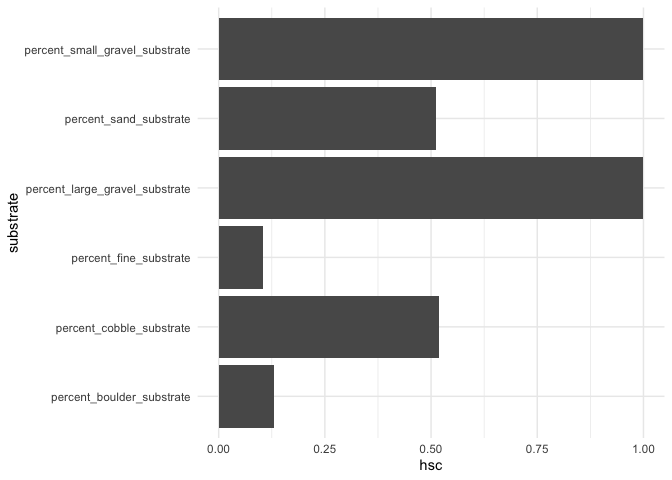
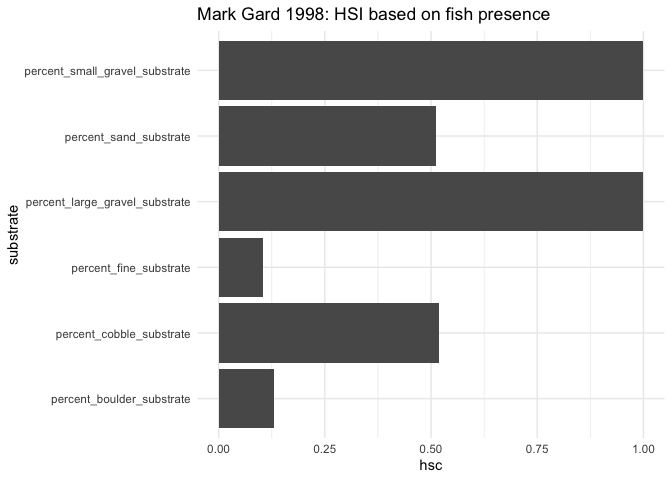
functionalizing the comparison of Mark Gard 1998 HSC

diff --git a/data-raw/feather_river_mini_snorkel_hsi_workflow.md b/data-raw/feather_river_mini_snorkel_hsi_workflow.md
@@ -1,7 +1,7 @@
 Mini Snorkel Feather HSI Workflow
 ================
 Maddee Rubenson
-2024-04-02
+2024-04-03
 
 ``` r
 # read in mini snorkel data
@@ -180,15 +180,15 @@ tidy(wf_fit) # why is boulder NA? small gravel only significant predictor
 ```
 
     ## # A tibble: 7 × 5
-    ##   term                            estimate std.error statistic   p.value
-    ##   <chr>                              <dbl>     <dbl>     <dbl>     <dbl>
-    ## 1 (Intercept)                    -2.18       0.660     -3.30    0.000966
-    ## 2 percent_fine_substrate         -0.000375   0.00759   -0.0494  0.961   
-    ## 3 percent_sand_substrate          0.00222    0.00682    0.326   0.745   
-    ## 4 percent_small_gravel_substrate -0.0158     0.00699   -2.26    0.0236  
-    ## 5 percent_large_gravel_substrate -0.0130     0.00713   -1.82    0.0690  
-    ## 6 percent_cobble_substrate       -0.0176     0.00900   -1.95    0.0511  
-    ## 7 percent_boulder_substrate      NA         NA         NA      NA
+    ##   term                           estimate std.error statistic   p.value
+    ##   <chr>                             <dbl>     <dbl>     <dbl>     <dbl>
+    ## 1 (Intercept)                    -2.19      0.626      -3.49   0.000476
+    ## 2 percent_fine_substrate         -0.00359   0.00747    -0.481  0.631   
+    ## 3 percent_sand_substrate          0.00188   0.00650     0.289  0.772   
+    ## 4 percent_small_gravel_substrate -0.0167    0.00670    -2.49   0.0129  
+    ## 5 percent_large_gravel_substrate -0.0116    0.00674    -1.73   0.0843  
+    ## 6 percent_cobble_substrate       -0.0159    0.00860    -1.85   0.0640  
+    ## 7 percent_boulder_substrate      NA        NA          NA     NA
 
 ``` r
 # Make predictions
@@ -217,62 +217,96 @@ To convert from percent to discrete:
 
 **Discussion**
 
-- Sand has a stronger HSI when looking at number of fish vs.
-  presence/absence
+Substrate: - Sand has a stronger HSI when looking at number of fish vs.
+presence/absence
 
 - Presence/absence results are consistent with logistic regression
 
-``` r
-# fish presence:
-hsi_dev_markgard_1998_fish_presence <- mini_snorkel_model_ready |> 
-  select(count, fish_presence, percent_fine_substrate:percent_boulder_substrate) |> 
-  pivot_longer(cols = c(percent_fine_substrate:percent_boulder_substrate), names_to = "substrate", values_to = "percent") |> 
-  mutate(substrate_presence = ifelse(percent >= 20, 1, 0)) |> 
-  filter(substrate_presence == 1) |> 
-  group_by(substrate) |>
-  summarise(n_fish = sum(as.numeric(fish_presence))) |> 
-  mutate(prop_fish_count = n_fish/sum(n_fish)) |> 
-  ungroup()
-
-most_freq <- hsi_dev_markgard_1998_fish_presence |> 
-  arrange(desc(n_fish)) |> 
-  slice(1) 
-
-hsi_dev_markgard_1998_fish_presence <- hsi_dev_markgard_1998_fish_presence |> 
-  mutate(hsc = prop_fish_count/most_freq$prop_fish_count)
-
-ggplot(hsi_dev_markgard_1998_fish_presence) +
-  geom_col(aes(y = hsc, x = substrate)) +
-  coord_flip()
-```
-
-![](feather_river_mini_snorkel_hsi_workflow_files/figure-gfm/unnamed-chunk-4-1.png)<!-- -->
+Cover: - More consistent results when looking at number of fish
+vs. presence/absence
 
 ``` r
-# total fish count 
-hsi_dev_markgard_1998 <- mini_snorkel_model_ready |> 
-  select(count, percent_fine_substrate:percent_boulder_substrate) |> 
-  pivot_longer(cols = c(percent_fine_substrate:percent_boulder_substrate), names_to = "substrate", values_to = "percent") |> 
-  mutate(substrate_presence = ifelse(percent >= 20, 1, 0)) |> 
-  filter(substrate_presence == 1) |> 
-  group_by(substrate) |>
-  summarise(n_fish = sum(count)) |> 
-  mutate(prop_fish_count = n_fish/sum(n_fish)) |> 
-  ungroup()
+mark_gard_1998_hsi <- function(data, percent_presence = 20, cols = c()) {
+  data_tidy <- data |> 
+    select(count, fish_presence, cols) |> 
+    pivot_longer(cols = cols, names_to = "type", values_to = "percent") |> 
+    mutate(presence = ifelse(percent >= percent_presence, 1, 0)) |> 
+    filter(presence == 1) |> 
+    group_by(type) |>
+    summarise(n_fish_presence = sum(as.numeric(fish_presence)),
+              n_fish_total = sum(count)) |> 
+    mutate(prop_fish_presence = n_fish_presence/sum(n_fish_presence),
+           prop_fish_total = n_fish_total/sum(n_fish_total)) |> 
+    ungroup()
+  
+     most_freq_total <- data_tidy |> 
+      arrange(desc(prop_fish_total)) |> 
+      slice(1) 
+ 
+     most_freq_presence <- data_tidy |> 
+      arrange(desc(prop_fish_presence)) |> 
+      slice(1) 
+  
+  
+  data_tidy_final <- data_tidy |> 
+    mutate(hsc_presence = prop_fish_presence/most_freq_presence$prop_fish_presence,
+           hsc_total = prop_fish_total/most_freq_total$prop_fish_total)
+  
+  return(data_tidy_final)
 
-most_freq <- hsi_dev_markgard_1998 |> 
-  arrange(desc(n_fish)) |> 
-  slice(1) 
-
-hsi_dev_markgard_1998 <- hsi_dev_markgard_1998 |> 
-  mutate(hsc = prop_fish_count/most_freq$prop_fish_count)
-
-ggplot(hsi_dev_markgard_1998) +
-  geom_col(aes(y = hsc, x = substrate)) +
-  coord_flip()
+}
 ```
 
-![](feather_river_mini_snorkel_hsi_workflow_files/figure-gfm/unnamed-chunk-4-2.png)<!-- -->
+### Substrate
+
+``` r
+cols <- c('percent_fine_substrate', "percent_sand_substrate" , 'percent_small_gravel_substrate', 'percent_large_gravel_substrate', 'percent_cobble_substrate', 'percent_boulder_substrate')
+
+hsi_substrate <- mark_gard_1998_hsi(data = mini_snorkel_model_ready, percent_presence = 20, cols = cols)
+```
+
+    ## Warning: Using an external vector in selections was deprecated in tidyselect 1.1.0.
+    ## ℹ Please use `all_of()` or `any_of()` instead.
+    ##   # Was:
+    ##   data %>% select(cols)
+    ## 
+    ##   # Now:
+    ##   data %>% select(all_of(cols))
+    ## 
+    ## See <https://tidyselect.r-lib.org/reference/faq-external-vector.html>.
+    ## This warning is displayed once every 8 hours.
+    ## Call `lifecycle::last_lifecycle_warnings()` to see where this warning was
+    ## generated.
+
+``` r
+hsi_substrate |> 
+  pivot_longer(cols = c(hsc_presence, hsc_total), names_to = "hsc", values_to = "values") |> 
+  ggplot() + 
+  geom_col(aes(y = values, x = type, fill = hsc), position = "dodge") +
+  coord_flip() +
+  ggtitle('Mark Gard 1998: Substrate HSI Comparison')
+```
+
+![](feather_river_mini_snorkel_hsi_workflow_files/figure-gfm/unnamed-chunk-5-1.png)<!-- -->
+
+### Cover
+
+``` r
+cols <- c('percent_no_cover_inchannel', 'percent_small_woody_cover_inchannel', 'percent_large_woody_cover_inchannel', 
+          'percent_submerged_aquatic_veg_inchannel', 'percent_undercut_bank', 'percent_no_cover_overhead', 'percent_cover_half_meter_overhead',
+          'percent_cover_more_than_half_meter_overhead')
+
+hsi_cover <- mark_gard_1998_hsi(data = mini_snorkel_model_ready, percent_presence = 20, cols = cols)
+
+hsi_cover |> 
+  pivot_longer(cols = c(hsc_presence, hsc_total), names_to = "hsc", values_to = "values") |> 
+  ggplot() + 
+  geom_col(aes(y = values, x = type, fill = hsc), position = "dodge") +
+  coord_flip() +
+  ggtitle('Mark Gard 1998: Cover HSI Comparison')
+```
+
+![](feather_river_mini_snorkel_hsi_workflow_files/figure-gfm/unnamed-chunk-6-1.png)<!-- -->
 
 ``` r
 knitr::knit_exit()
